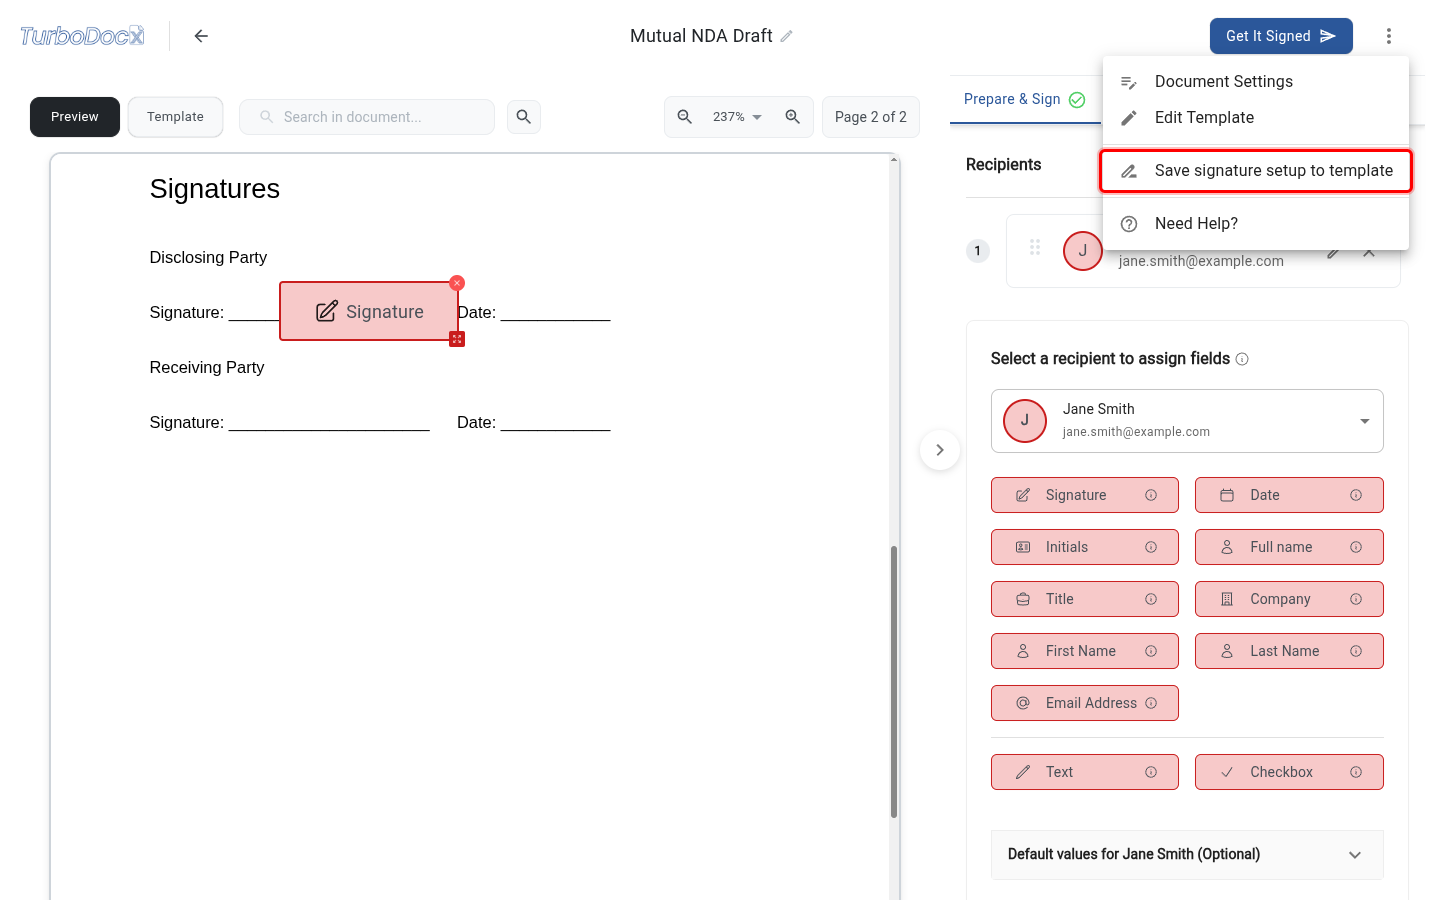
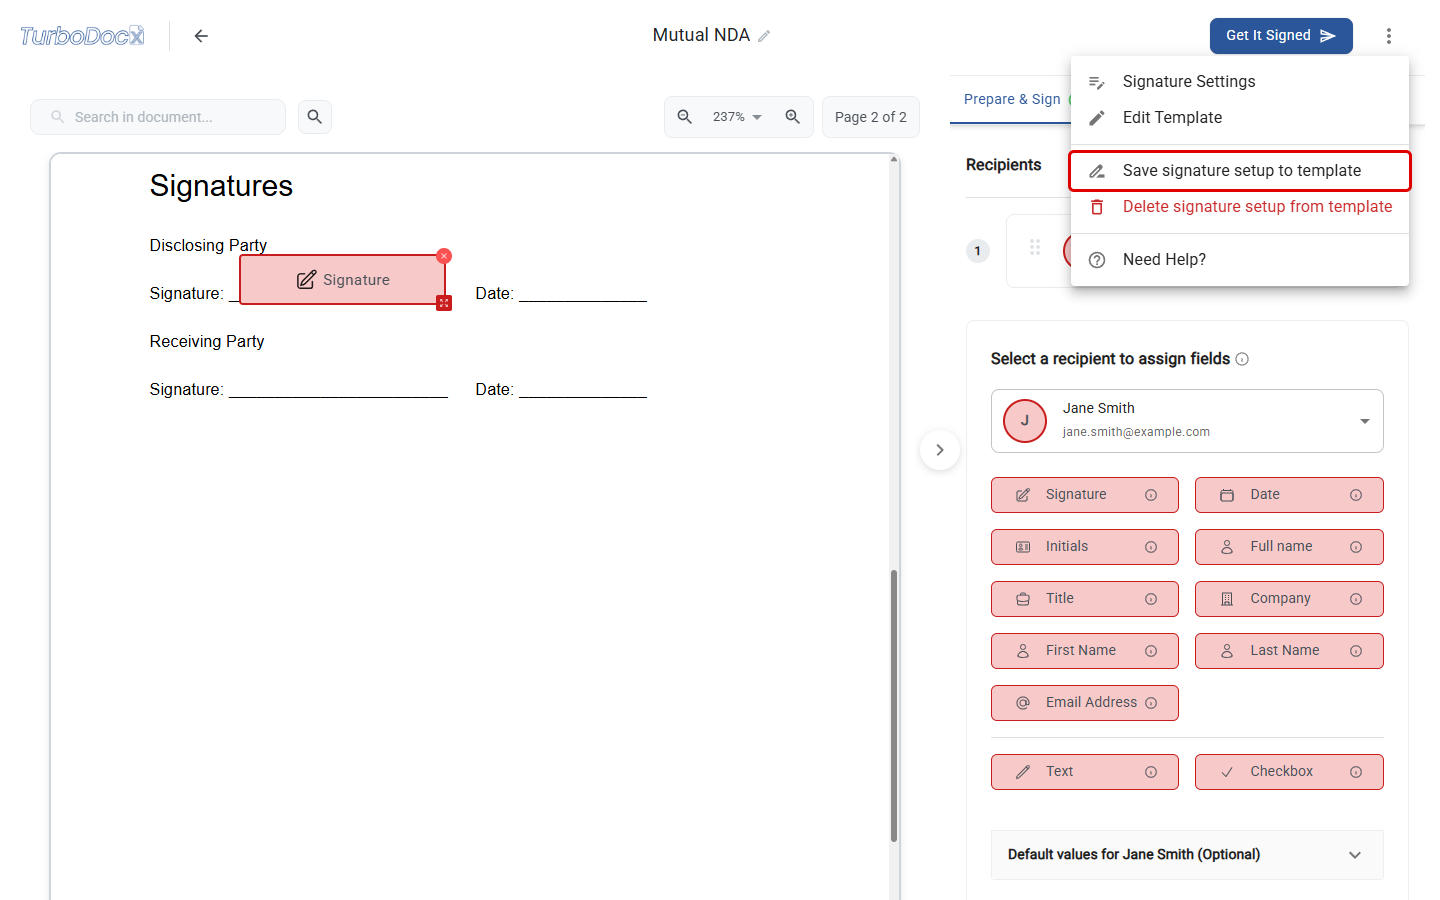
docs(turbosign): refresh signature template screenshots and own-value steps
- Retake the PDF signature template screenshots: the generate page no
  longer has a Preview/Template toggle, and the PDF settings menu item
  is now "Signature Settings".
- Add screenshots for saving a setup on a Word template, the setup on
  the template's page, the "Own value" field card, the empty "No
  signature setup yet" state and the "Use a different value for this
  field" switch.
- Describe the switch as it works: tick it, then the field's Default
  Value box changes only that field; untick to follow the signer again.
- Retake the field panel screenshots for default value, fixed date,
  alignment and Required, and match button labels to the app.

diff --git a/docs/TurboSign/Signature-Setups-on-Templates.md b/docs/TurboSign/Signature-Setups-on-Templates.md
@@ -41,7 +41,7 @@ Go to **Templates** and click your template. Its generate page opens. Where you 
 the template:
 
 - **The template has variables to fill in:** you see the **Template Variables** tab with a
-  **Signatures** tab next to it. Click **Signatures**. When you're done, **Generate and Sign**
+  **Signatures** tab next to it. Click **Signatures**. When you're done, **Generate And Sign**
   creates the document and then sends it for signature.
 - **The template has no variables** (every PDF template, and any Word or PowerPoint template
   without `{variables}`): the page opens on **Prepare & Sign**. Nothing needs to be generated, so
@@ -52,7 +52,7 @@ the template:
 1. Click **Add Recipient**.
 2. Enter the signer's **Name** and **Email**. Leave **Recipient Type** on **Needs to Sign**.
    To add someone who only gets a copy of the signed document, choose **Receives a Copy** instead.
-3. If you sign the document yourself, click **Include me** to fill in your own name and email.
+3. If you sign the document yourself, click **Include Me** to fill in your own name and email.
 4. If your organization uses identity verification, choose how this signer proves who they are:
    **No verification**, **Email one-time passcode**, or **SMS one-time passcode** (enter their
    mobile number too). SMS needs a plan that includes it. See
@@ -111,12 +111,15 @@ signer, and all three show the same company.
 When one field needs something different, give that field its own value:
 
 1. Click the field.
-2. Turn on **Use a different value for this field**.
-3. Type the value in **Value for this field**. It starts with the signer's value.
+2. Tick **Use a different value for this field**.
+3. Type the value in the field's **Default Value for …** box. It starts with the signer's value,
+   and it now changes only this field. The note under the box says so: *Only this field.*
+
+![Company field settings with Use a different value for this field ticked and its own value, Acme Holdings Inc., in the Default Value for Company box, highlighted](/img/turbosign/field-own-value/01-use-different-value.png)
 
 That field now keeps its own value. Changing the signer's value no longer changes it, and it
-keeps its value if you assign it to another signer. Turn the switch off to make the field follow
-the signer's value again.
+keeps its value if you assign it to another signer. Untick **Use a different value for this
+field** to make the field follow the signer's value again.
 
 **Text fields** always have their own value, in **Default Value for This Field**.
 
@@ -124,15 +127,14 @@ the signer's value again.
 
 :::note Setups and drafts saved before this switch existed
 If a saved setup or draft already had a field whose value differed from its signer's, that field
-opens with **Use a different value for this field** turned on, so it keeps exactly the value it
+opens with **Use a different value for this field** ticked, so it keeps exactly the value it
 had.
 :::
 
 ## Step 5: Set the email and reminders
 
-Click the **⋮** button in the top right corner, then **Document Settings**. The window that opens
-is called **Document Settings** for a Word or PowerPoint template and **Signature Settings** for a
-PDF template.
+Click the **⋮** button in the top right corner, then **Document Settings** (for a Word or
+PowerPoint template) or **Signature Settings** (for a PDF template).
 
 - **Deliverable Name** / **Document Name:** the name of the document. For a PDF template this is
   the name signers see, and it's saved with the setup.
@@ -148,6 +150,8 @@ signer.
 
 1. Click the **⋮** button in the top right corner.
 2. Click **Save signature setup to template**.
+
+![Menu on a Word template's generate page with Save signature setup to template highlighted](/img/signature_setups_on_templates/01_save_setup_word_template.png)
 
 You'll see **Signature setup saved to this template. It will be reused next time you send it for
 signing.**
@@ -165,7 +169,7 @@ for that send: the saved setup stays the same until someone saves again.
 
 From then on, every time anyone opens the template's generate page, the signers, fields, CC
 recipients, message and reminder settings are already filled in. Check them, fill in the
-template's variables if it has any, and click **Generate and Sign** or **Get It Signed**.
+template's variables if it has any, and click **Generate And Sign** or **Get It Signed**.
 
 You can also start from **TurboSign**:
 
@@ -187,6 +191,8 @@ Template** on the generate page, or open the template's menu in the **Templates*
   the left column. A green dot on **Signature setup** means the template has one.
 - **PDF templates:** the setup is shown right away, since there are no variables.
 
+![Template page showing the Signature setup with its signers, the Delete Setup and Edit Setup buttons highlighted, and the saved fields drawn on the PDF preview](/img/signature_setups_on_templates/02_setup_on_template_page.png)
+
 The page shows:
 
 - **Signers:** in signing order, with each signer's verification method and number of fields.
@@ -198,21 +204,25 @@ The page shows:
 - **Reminders & expiration:** **Organization defaults**, or **Changed for this template** with a
   summary.
 
+![Field cards grouped by signer, with a Company field card tagged Own value and showing its default value highlighted](/img/signature_setups_on_templates/03_field_cards_own_value.png)
+
 The saved fields are drawn on the document preview. Hover over a field card to highlight that
 field and scroll the preview to it.
 
 ## Change or remove the setup
 
-- **Change it:** on the template's page, click **Edit setup**. The generate page opens on its
+- **Change it:** on the template's page, click **Edit Setup**. The generate page opens on its
   **Signatures** (or **Prepare & Sign**) tab with the setup loaded. Make your changes, then click
   **⋮ → Save signature setup to template**.
-- **Remove it:** on the template's page, click **Delete setup** and confirm, or click
+- **Remove it:** on the template's page, click **Delete Setup** and confirm, or click
   **⋮ → Delete signature setup from template** on the generate page. Documents you already sent
   aren't affected. New sends start with no signers or fields.
 - **No setup yet?** The template's page shows **No signature setup yet**. Click
-  **Set up on the generate page** to create one.
+  **Set Up On The Generate Page** to create one.
 
-**Edit setup**, **Delete setup** and **Set up on the generate page** are shown to Administrators
+![Signature setup view of a Word template with no saved setup, showing No signature setup yet and the Set Up On The Generate Page button highlighted](/img/signature_setups_on_templates/04_no_setup_yet.png)
+
+**Edit Setup**, **Delete Setup** and **Set Up On The Generate Page** are shown to Administrators
 and Contributors only.
 
 ## Save a setup from TurboSign

diff --git a/docs/TurboSign/Setting-up-TurboSign.md b/docs/TurboSign/Setting-up-TurboSign.md
@@ -393,7 +393,7 @@ If you have already placed a field on the document, you don't need to hunt for t
 2. The right panel opens with a **"Default Value for [field type]"** box.
 3. **Type the value.** It saves as you type.
 
-![Field properties panel showing the Default Value box for a Full name field](/img/turbosign/SetDefaultValueOnField.png)
+![Company field settings with the Default Value for Company box and its note, Applies to every Company field for Jane Smith, highlighted](/img/turbosign/SetDefaultValueOnField.png)
 
 The panel tells you the scope right underneath the box — *"Applies to every [field type] field for [recipient]"* — because this is the **same** value the accordion holds. Change it here and every field of that type for that recipient changes too.
 
@@ -402,12 +402,14 @@ The panel tells you the scope right underneath the box — *"Applies to every [f
 Sometimes one field needs a different value from the rest, for example a second **Company** field for a parent company. To set it for that field only:
 
 1. **Click the field** on the document.
-2. **Turn on "Use a different value for this field".**
-3. **Type the value** in **Value for this field**. It starts with the recipient's value.
+2. **Tick "Use a different value for this field".**
+3. **Type the value** in the field's **Default Value for …** box. It starts with the recipient's value, and it now changes only this field. The note under the box says so: *Only this field.*
 
-That field now keeps its own value: changing the recipient's value no longer changes it, and it keeps its value if you assign it to another recipient. Turn the switch off to make the field follow the recipient's value again.
+![Company field settings with "Use a different value for this field" ticked and its own value, Acme Holdings Inc., in the Default Value for Company box, highlighted](/img/turbosign/field-own-value/01-use-different-value.png)
 
-If you open a document or saved setup where a field already had a value different from its recipient's, that field opens with the switch turned on, so its value stays exactly as it was.
+That field now keeps its own value: changing the recipient's value no longer changes it, and it keeps its value if you assign it to another recipient. Untick **"Use a different value for this field"** to make the field follow the recipient's value again.
+
+If you open a document or saved setup where a field already had a value different from its recipient's, that field opens with **"Use a different value for this field"** ticked, so its value stays exactly as it was.
 
 :::note Text fields work differently
 A **Text** field's default is its own — each Text field keeps a separate value, since a free-text box usually means something different in each spot. Its panel says **"Default Value for This Field"** rather than naming a recipient.
@@ -423,7 +425,7 @@ If the document needs a **specific** date instead (an effective date, a policy s
 2. In the right panel, under **Date Value**, choose **"Use a fixed date"**.
 3. **Pick the date.** It starts on today's date so you have something valid to adjust.
 
-![Date field panel with "Use a fixed date" selected and a date chosen](/img/turbosign/SetDateFieldValue.png)
+![Date field settings with the Date Value section highlighted, "Use a fixed date" selected and a date chosen](/img/turbosign/SetDateFieldValue.png)
 
 Choose **"Use the signing date"** to go back to the automatic behavior. The panel states which mode you're in underneath the control, so there's no guessing.
 

diff --git a/docs/TurboDocx-Templating/How-to-Create-a-Deliverable.md b/docs/TurboDocx-Templating/How-to-Create-a-Deliverable.md
@@ -120,7 +120,7 @@ Once you've completed filling out the variables in your Deliverable, click the "
 ![This is the image for BUTTON with the text: Generate Deliverable and then clicked](/img/how_to_create_a_deliverable/step_29.png)
 
 :::tip Need it signed too?
-Open the **Signatures** tab next to **Template Variables**, add your signers and place their signature fields. The button then reads **Generate and Sign**: it creates the deliverable and sends it for signature in one go. To reuse those signers and fields next time, save them to the template. See [How to Save a Signature Setup on a Template](/docs/TurboSign/Signature-Setups-on-Templates).
+Open the **Signatures** tab next to **Template Variables**, add your signers and place their signature fields. The button then reads **Generate And Sign**: it creates the deliverable and sends it for signature in one go. To reuse those signers and fields next time, save them to the template. See [How to Save a Signature Setup on a Template](/docs/TurboSign/Signature-Setups-on-Templates).
 :::
 
 <br/><br/>

diff --git a/docs/TurboSign/PDF-Signature-Templates.md b/docs/TurboSign/PDF-Signature-Templates.md
@@ -81,7 +81,7 @@ a field to change its settings, such as whether the signer must fill it in or th
 with. See [Adjust each field's settings](./Signature-Setups-on-Templates.md#step-4-adjust-each-fields-settings).
 
 :::tip Name, message and reminders
-Click **⋮ → Document Settings** to open **Signature Settings**. There you can set the **Document
+Click **⋮ → Signature Settings**. There you can set the **Document
 Name** signers see, the **Signature Email Description** (the message in their email), and
 **Reminders & expiration**. These are saved with the setup too.
 :::
